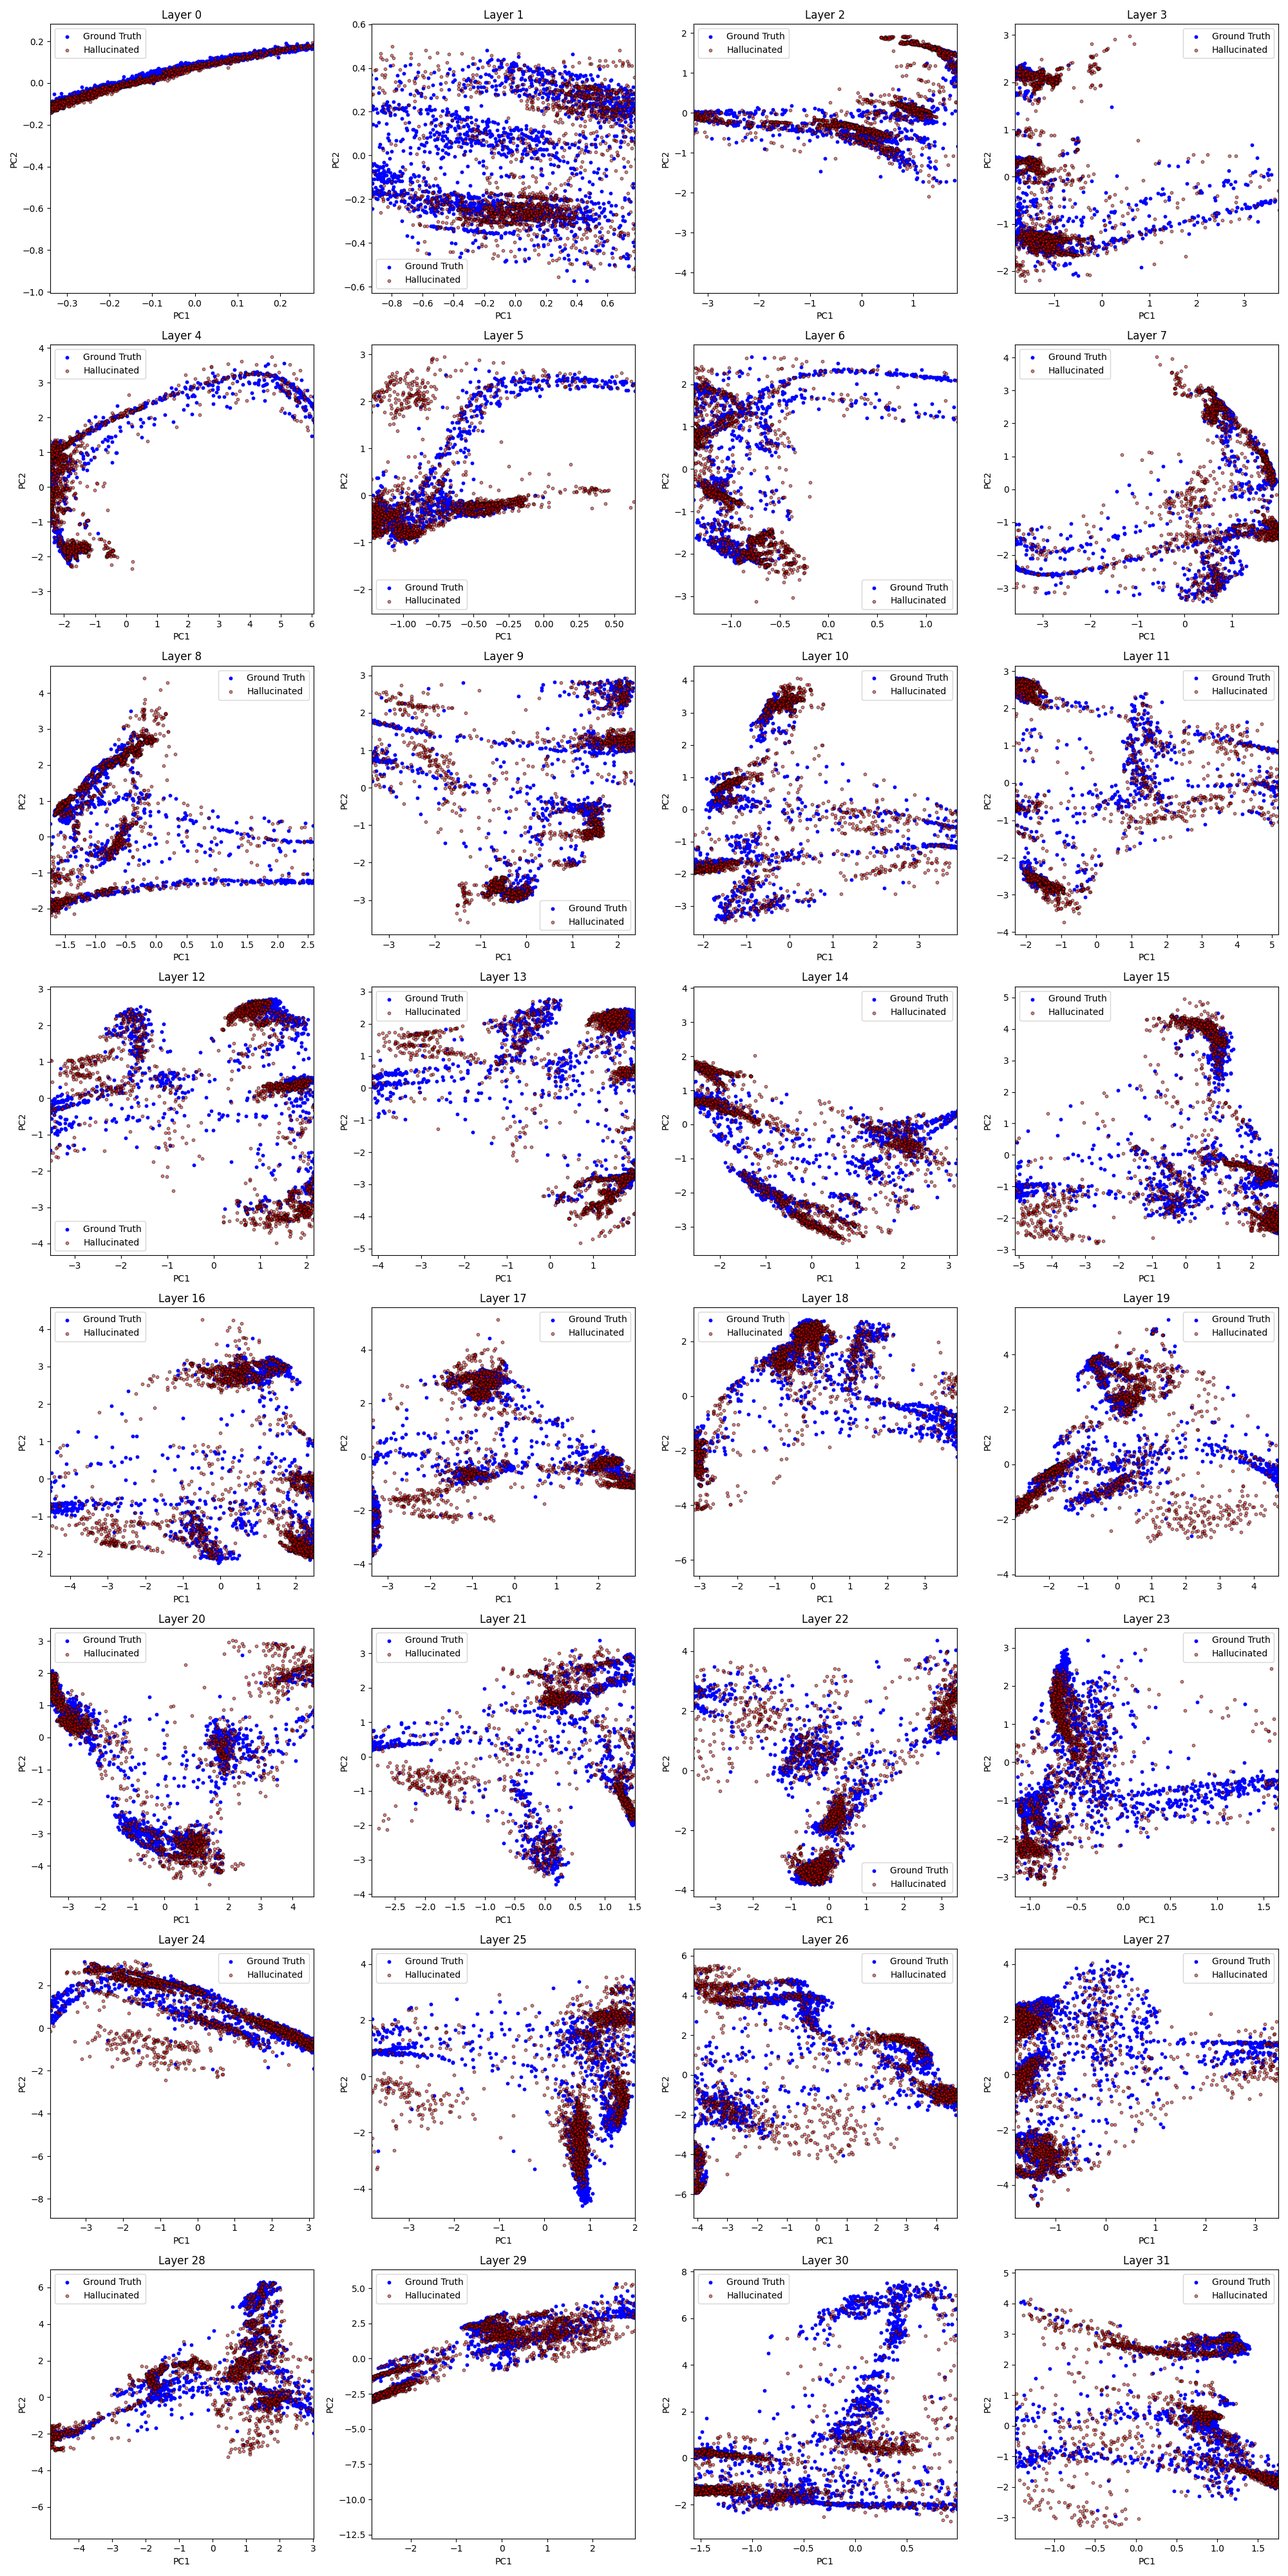
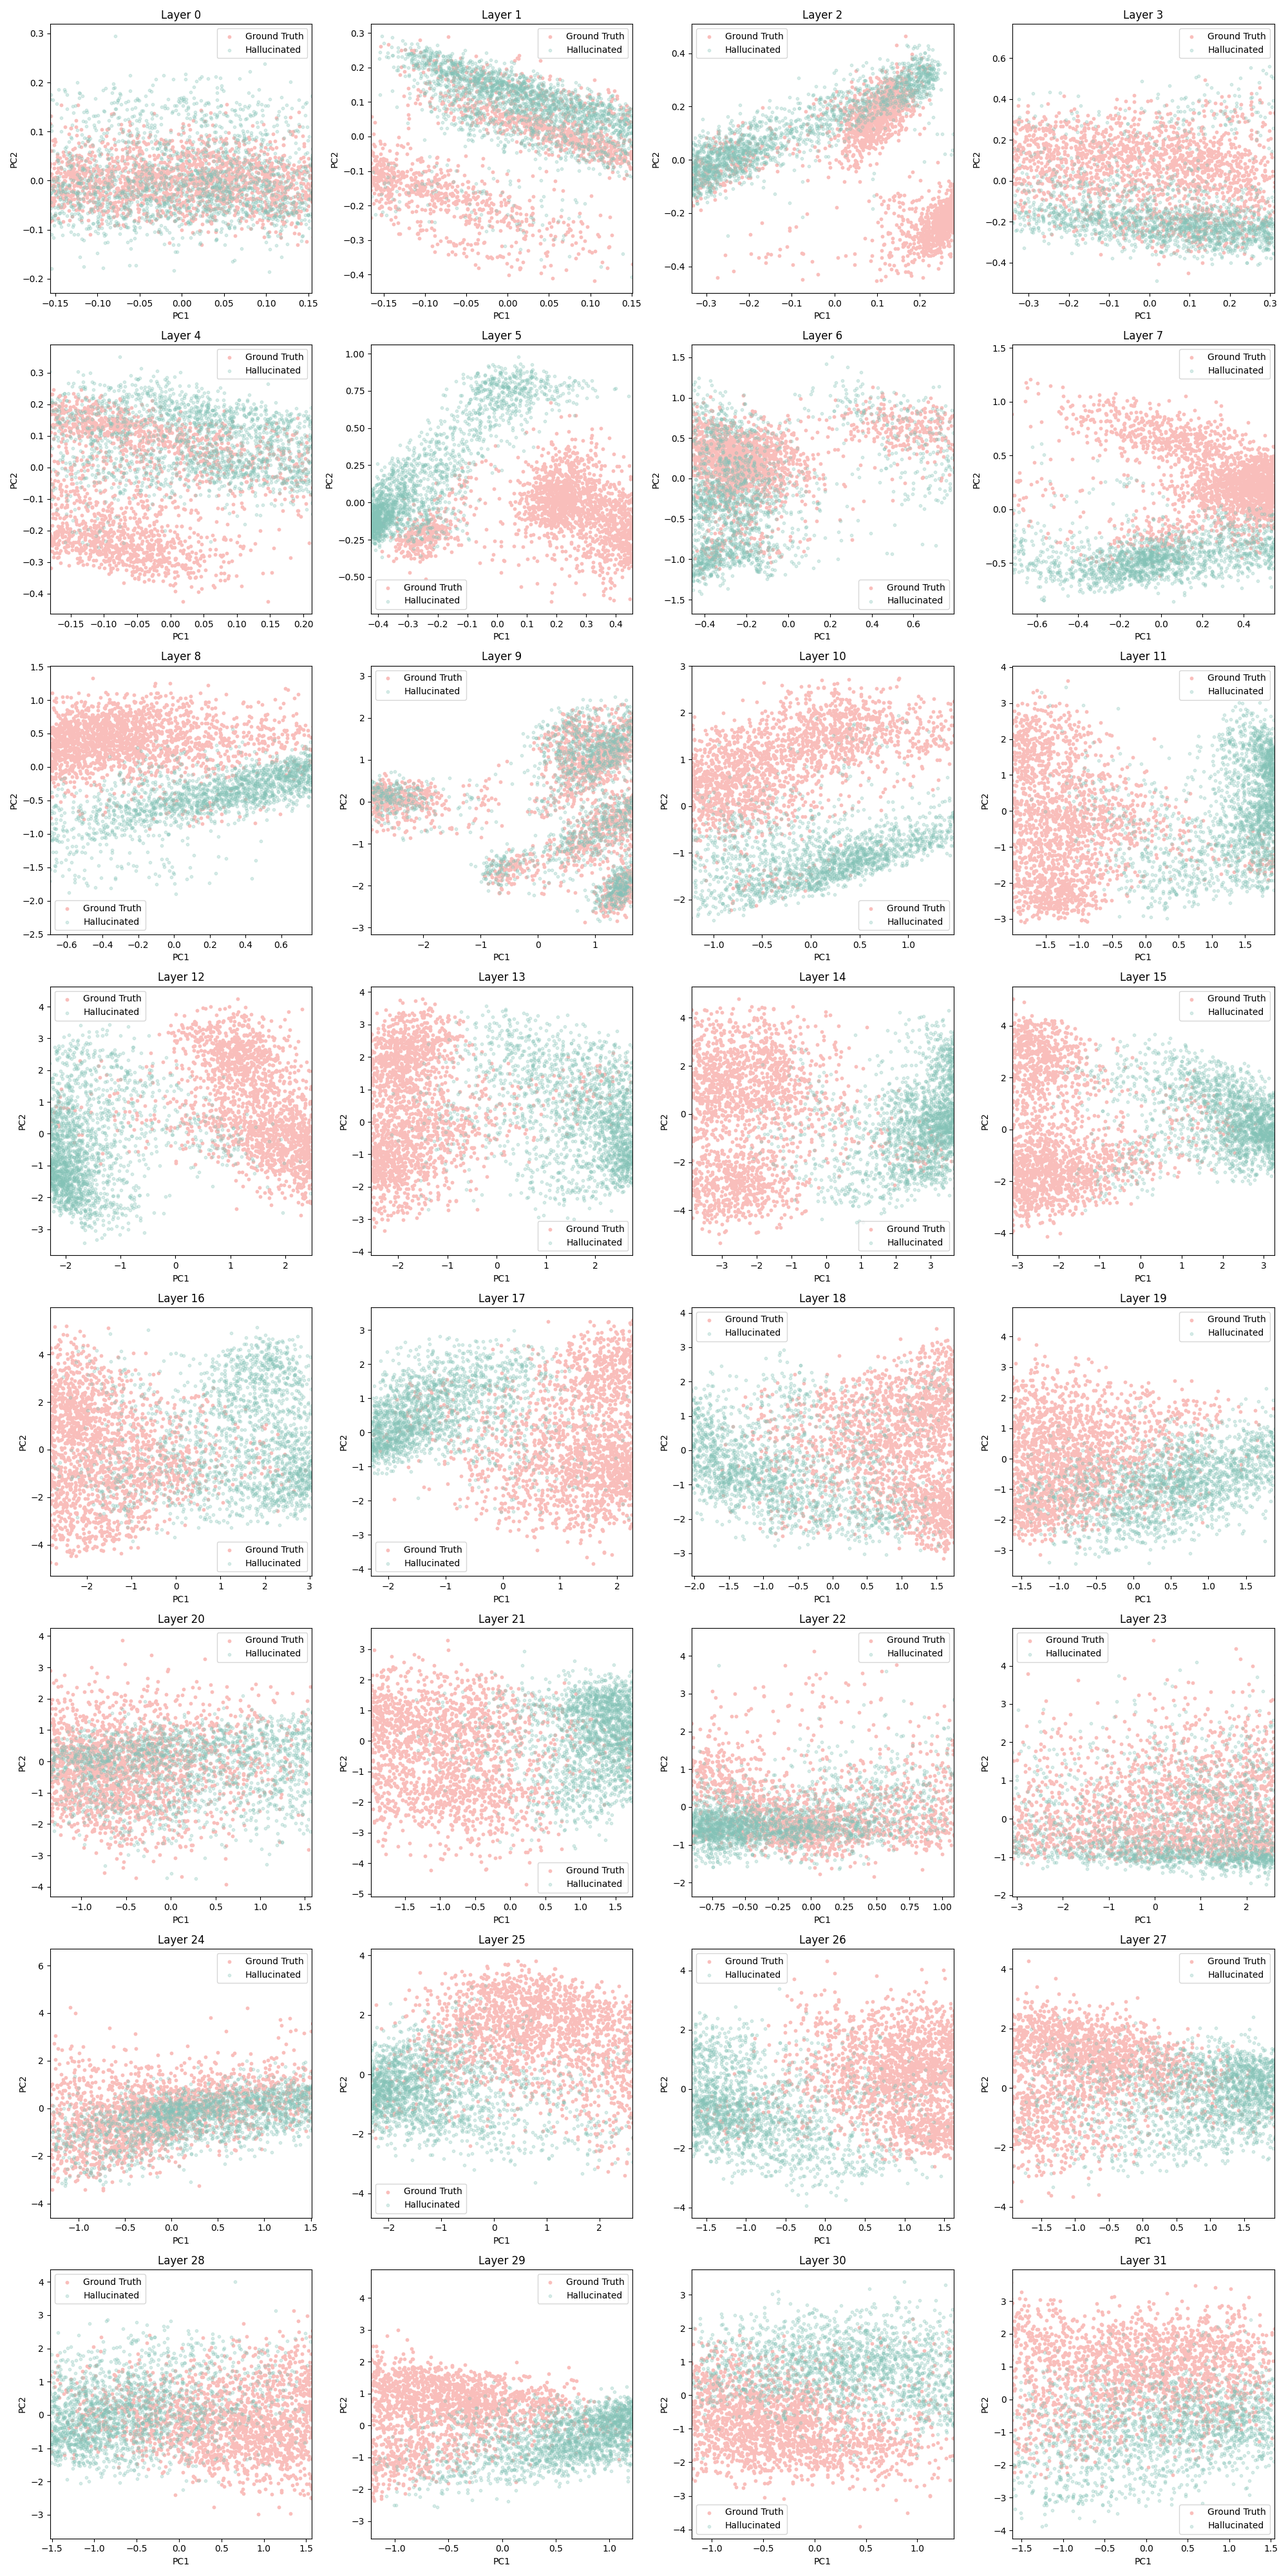
correct vision steering

diff --git a/vision_activation/utils.py b/vision_activation/utils.py
@@ -105,9 +105,13 @@ def get_prompt_pairs(dataset, processor):
         hallucinated_answer = entry["llava_model_answer"]
         image_url = entry["image_url"]
 
-        response = requests.get(image_url)
-        image_bytes = BytesIO(response.content)
-        image = Image.open(image_bytes)
+        try:
+            response = requests.get(image_url)
+            image_bytes = BytesIO(response.content)
+            image = Image.open(image_bytes)
+        except Exception as e:
+            print(f"Error processing image URL {image_url}: {e}")
+            continue
 
         gt_tokenized = format_prompt(image, question, gt_answer, processor)
         hallucinated_tokenized = format_prompt(image, question, hallucinated_answer, processor)
@@ -121,9 +125,9 @@ def get_activations_pyvene(pv_model, collectors, prompt, device):
     with torch.no_grad():
         prompt = prompt.to(device)
         output = pv_model({"input_ids": prompt["input_ids"], 
-                           #"pixel_values": prompt["pixel_values"], 
+                           "pixel_values": prompt["pixel_values"], 
+                           "image_sizes": prompt["image_sizes"], 
                            "output_hidden_states": True})[1]
-
 
     # Input → Self-Attention → o_proj → Residual Connection → LayerNorm → [hidden_states] → MLP → Residual Connection → LayerNorm → Next Layer
     # Collector hook: Input → Self-Attention → Collector (captures o_proj.input) → o_proj → Residual Connection -> ...
@@ -145,15 +149,15 @@ def get_activations_pyvene(pv_model, collectors, prompt, device):
     return hidden_states, head_wise_hidden_states
 
 
-def save_activations(layer_wise_activations, head_wise_activations, name, chunk_size=100):
-    print(f"Saving {name} layer wise activations in chunks")
-    for i in range(0, len(layer_wise_activations), chunk_size):
-        chunk = layer_wise_activations[i: i+chunk_size]
-        np.save(f"/net/scratch2/steeringwheel/weiyitian/activations/HaloQuest/{name}_layer_wise_{i // chunk_size}.npy", chunk)
-    print(f"Saving {name} head wise activations in chunks")
-    for i in range(0, len(head_wise_activations), chunk_size):
-        chunk = head_wise_activations[i:i+chunk_size]
-        np.save(f"/net/scratch2/steeringwheel/weiyitian/activations/HaloQuest/{name}_head_wise_{i // chunk_size}.npy", chunk)
+def save_activations(gt_activations, hallucinated_activations, layer_type, chunk_size=100):
+    print(f"Saving ground truth {layer_type} wise activations in chunks")
+    for i in range(0, len(gt_activations), chunk_size):
+        chunk = gt_activations[i: i+chunk_size]
+        np.save(f"/net/scratch2/steeringwheel/weiyitian/activations/HaloQuest/HaloQuest_gt_{layer_type}_wise_{i // chunk_size}.npy", chunk)
+    print(f"Saving hallucinated {layer_type} wise activations in chunks")
+    for i in range(0, len(hallucinated_activations), chunk_size):
+        chunk = hallucinated_activations[i:i+chunk_size]
+        np.save(f"/net/scratch2/steeringwheel/weiyitian/activations/HaloQuest/HaloQuest_hallucinated_{layer_type}_wise_{i // chunk_size}.npy", chunk)
 
 
 def plot_layer_pca_comparison(gt_activations, hallucinated_activations, name, layer_num=32):
@@ -182,9 +186,9 @@ def plot_layer_pca_comparison(gt_activations, hallucinated_activations, name, la
         upper_bound = np.percentile(concat_x_values, 85)
 
         ax = axes[layer_id]
-        ax.scatter(pca_gt[:, 0], pca_gt[:, 1], label='Ground Truth', color='blue', s=10)
+        ax.scatter(pca_gt[:, 0], pca_gt[:, 1], label='Ground Truth', color='#f9bebb', s=10)
         ax.scatter(pca_hallu[:, 0], pca_hallu[:, 1], label='Hallucinated', 
-                   color='red', alpha=0.5, edgecolor='black', s=10)
+                   color='#84c3b7', alpha=0.3, s=10)
 
         ax.set_title(f'Layer {layer_id}')
         ax.set_xlim(lower_bound, upper_bound)
@@ -292,16 +296,14 @@ def apply_interventions(dataset, test_idx, intervened_model, processor, file_nam
 
             prompt = processor.apply_chat_template(conversation=conversation, add_generation_prompt=True)
             inputs = processor(images=image, text=prompt, return_tensors="pt").to("cuda:0")
-            input_ids = inputs["input_ids"]
-            print(input_ids)
-            _, output = intervened_model.generate({'input_ids': input_ids})
-            # print(input_ids)
-            # output = intervened_model.generate(**inputs, use_cache=True, max_new_tokens=100)#[1]
-            print(output)
-            #output = intervened_model.generate(**inputs, max_new_tokens=100)
-
+            #_, output = intervened_model.generate({'input_ids': inputs["input_ids"]})
+            _, output = intervened_model.generate({"input_ids": inputs["input_ids"],
+                                                "attention_mask": inputs["attention_mask"],
+                                               "pixel_values": inputs["pixel_values"], 
+                                               "image_sizes": inputs["image_sizes"]}, 
+                                               max_new_tokens=100)
+            
             model_output = processor.decode(output[0], skip_special_tokens=True)
-            print(model_output)
             model_answer = model_output.split("ASSISTANT:")[-1].strip()
 
             result_entry = {
@@ -332,6 +334,9 @@ def llama_evaluate(df, file_name):
     model = LlamaForCausalLM.from_pretrained("/net/scratch2/steeringwheel/Llama-3.1-8B-Instruct", torch_dtype=torch.float16, device_map="auto")
     model.to("cuda:0")
     model = torch.compile(model)
+
+    if tokenizer.pad_token_id is None:
+        tokenizer.pad_token = tokenizer.eos_token
 
     results = []
     for _, entry in tqdm(df.iterrows(), total=df.shape[0], desc="Evaluating entries"):
@@ -400,7 +405,6 @@ def get_ce_loss_owt(orig_model, intervened_model, processor, device='cuda', num_
     dataset = dataset.shuffle()
     dataset = dataset.select(range(num_samples))
 
-    # len(owt) = num_samples
     owt = dataset.map(lambda x: {'input_ids': torch.tensor(processor(x['text'], return_tensors='pt')['input_ids'][:,:128])})
     owt.set_format(type='torch', columns=['input_ids'])
     
@@ -410,17 +414,19 @@ def get_ce_loss_owt(orig_model, intervened_model, processor, device='cuda', num_
         for i in tqdm(rand_idxs, desc="Computing CE loss on OWT"):
             input_ids = owt[i]['input_ids'][:, :128].to(device)
 
-            orig_output = orig_model({'input_ids': input_ids, 'labels': input_ids})
+            orig_output = orig_model(input_ids=input_ids, labels=input_ids)
             orig_loss = orig_output.loss
             orig_losses[i] = orig_loss.item()
 
             intervened_output = intervened_model({'input_ids': input_ids, 'labels': input_ids})
-            intervened_loss = intervened_output.loss
+            intervened_loss = intervened_output[1].loss
             intervened_losses[i] = intervened_loss.item()
 
     orig_ce, intervened_ce = np.mean(orig_losses), np.mean(intervened_losses)
     print(f"CE loss on OWT before steering: {orig_ce}")
     print(f"CE loss on OWT after steering: {intervened_ce}")
+
+    return orig_ce, intervened_ce
 
 
 def calculate_kl_divergence(probs1_tensor, probs2_tensor):
@@ -444,11 +450,11 @@ def get_kl_divergence_owt(orig_model, intervened_model, processor, device='cuda'
         for i in tqdm(rand_idxs, desc="Computing KL divergence on OWT"):
             input_ids = owt[i]['input_ids'][:, :128].to(device)
 
-            orig_output = orig_model({'input_ids': input_ids})
+            orig_output = orig_model(input_ids=input_ids)
             orig_logits = orig_output.logits.cpu().type(torch.float32)
             orig_probs = F.softmax(orig_logits, dim=-1)
 
-            intervened_output = intervened_model({'input_ids': input_ids})
+            intervened_output = intervened_model({'input_ids': input_ids})[1]
             intervened_logits = intervened_output.logits.cpu().type(torch.float32)
             intervened_probs = F.softmax(intervened_logits, dim=-1)
 
@@ -459,6 +465,7 @@ def get_kl_divergence_owt(orig_model, intervened_model, processor, device='cuda'
 
     kl = np.mean(kl_divgs)
     print(f"KL-divergence between original model and the steered model: {kl}")
+    return kl
 
 
 def get_hallucination_num_after_steering(llama_result_file):
@@ -475,7 +482,7 @@ def get_hallucination_num_after_steering(llama_result_file):
     return total_entries, hallucination_count, hallucination_proportion
 
 
-def eval_ce_kl_owt(orig_model, intervened_model, processor, top_heads_by_layer, llama_result, file_name, device='cuda', num_samples=10):
+def eval_ce_kl_owt(orig_model, intervened_model, processor, top_heads_by_layer, llama_result, file_name, device='cuda', num_samples=100):
     orig_ce, intervened_ce = get_ce_loss_owt(orig_model, intervened_model, processor, device, num_samples)
     kl = get_kl_divergence_owt(orig_model, intervened_model, processor, device, num_samples)
     total_entries, hallucination_count, hallucination_proportion = get_hallucination_num_after_steering(llama_result)
@@ -489,6 +496,7 @@ def eval_ce_kl_owt(orig_model, intervened_model, processor, top_heads_by_layer, 
         "hallucination_proportion_after_steering": hallucination_proportion,
         "top_heads_by_layer": top_heads_by_layer
     }
+
 
     with open(file_name, 'w') as f:
         json.dump(results, f, indent=4)
@@ -505,6 +513,7 @@ def plot_layer_head_PCA(gt_head_wise_activations, hallucinated_head_wise_activat
     gt_head_wise_activations = np.asarray(gt_head_wise_activations)
     hallucinated_head_wise_activations = np.asarray(hallucinated_head_wise_activations)
     
+    ax_ind = 0
     for layer, heads in top_heads_by_layer.items():
         for head in heads:
             gt_features = gt_head_wise_activations[:, layer, head, :] #(prompt_num x hidden_dim / head_num)
@@ -517,26 +526,28 @@ def plot_layer_head_PCA(gt_head_wise_activations, hallucinated_head_wise_activat
             pca_gt = pca_features[:gt_features.shape[0]]
             pca_hallu = pca_features[gt_features.shape[0]:]
 
+            ax = axes[ax_ind]
+            ax.scatter(pca_gt[:, 0], pca_gt[:, 1], label='Ground Truth', color='#f9bebb', s=10)
+            ax.scatter(pca_hallu[:, 0], pca_hallu[:, 1], label='Hallucinated', 
+                    color='#84c3b7', alpha=0.3, s=10)
+
             # concat_x_values = np.concatenate([pca_gt[:, 0], pca_hallu[:, 0]])
             # lower_bound = np.percentile(concat_x_values, 15)
             # upper_bound = np.percentile(concat_x_values, 85)
-
-            ax = axes[layer]
-            ax.scatter(pca_gt[:, 0], pca_gt[:, 1], label='Ground Truth', color='#f9bebb', s=10)
-            ax.scatter(pca_hallu[:, 0], pca_hallu[:, 1], label='Hallucinated', 
-                    color='#84c3b7', alpha=0.5, s=10)
+            # ax.set_xlim(lower_bound, upper_bound)
 
             ax.set_title(f'Layer {layer} Head {head}')
-            # ax.set_xlim(lower_bound, upper_bound)
             ax.set_xlabel('PC1')
             ax.set_ylabel('PC2')
             ax.legend()
+
+            ax_ind += 1
     
     for ax in axes[top_num_heads:]:
         fig.delaxes(ax)
 
     plt.tight_layout()
-    plt.savefig(f'figures/{file_name}_layer_head_PCA.png')
+    plt.savefig(f'{file_name}_layer_head_PCA.png')
 
 
 def ignore_warnings():

diff --git a/vision_activation/get_activations.py b/vision_activation/get_activations.py
@@ -38,7 +38,7 @@ def main():
     if args.dataset_name == "HaloQuest": 
         dataset = load_dataset("csv", data_files="../HaloQuest/output/HaloQuest_llama.csv")
         dataset = dataset.filter(lambda entry: entry["llama_hallucination_evaluation"] == "yes")
-        dataset["train"] = dataset["train"].select(range(25))
+        #dataset["train"] = dataset["train"].select(range(350))
         formatter = get_prompt_pairs
     else:
         raise ValueError(f"Wrong Dataset Choice: {args.dataset_name}")
@@ -46,14 +46,14 @@ def main():
     
     prompt_pairs = formatter(dataset, processor)
 
-    num_hidden_layers = model.config.num_hidden_layers
+    num_hidden_layers = model.language_model.config.num_hidden_layers
 
     collectors, pv_configs = [None] * num_hidden_layers, [None] * num_hidden_layers
     for i in range(num_hidden_layers):
         collector = Collector(head=-1)
         pv_config = {
             # (batch_size, seq_len, hidden_dim=num_heads * D_head)
-            "component": f"model.language_model.layers[{i}].self_attn.o_proj.input",
+            "component": f"language_model.model.layers[{i}].self_attn.o_proj.input",
             "intervention": wrapper(collector)
         }
         collectors[i] = collector
@@ -89,8 +89,8 @@ def main():
     plot_layer_pca_comparison(gt_head_wise_activations, hallucinated_head_wise_activations, "HaloQuest_head_wise", layer_num=32)
 
     if args.save == 1:
-        #save_activations(gt_layer_wise_activations, gt_head_wise_activations, "HaloQuest_gt")
-        save_activations(hallucinated_layer_wise_activations, hallucinated_head_wise_activations, "HaloQuest_hallucinated")
+        save_activations(gt_head_wise_activations, hallucinated_head_wise_activations, "head")
+        save_activations(gt_layer_wise_activations, hallucinated_layer_wise_activations, "layer")
 
 
 if __name__ == '__main__':
